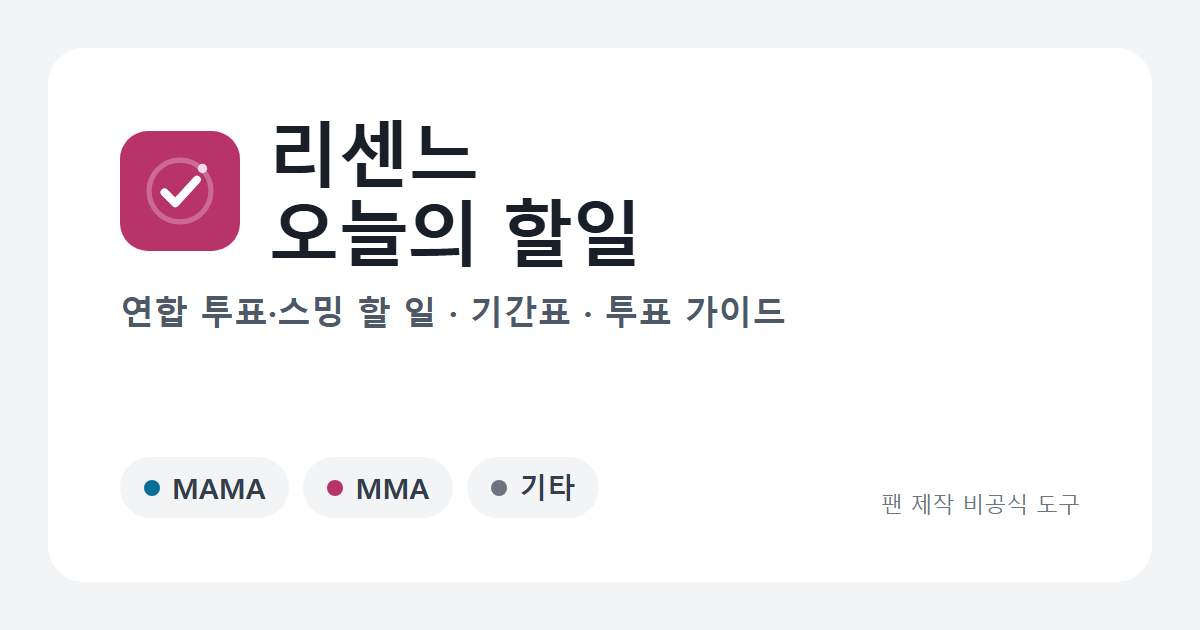
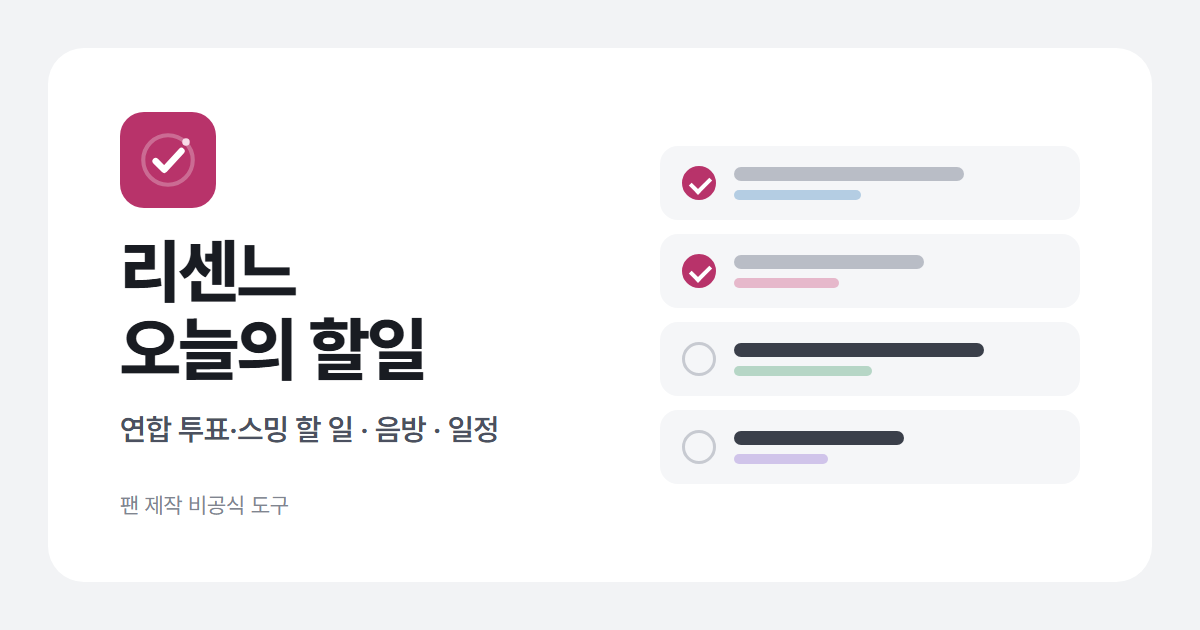
v157: 탭마다 공유 미리보기 그림 (tools/build_og.mjs)

diff --git a/music/index.html b/music/index.html
@@ -20,15 +20,15 @@
   <meta property="og:title" content="리센느 음방 · 음악방송 사전투표 · 실시간 투표 방법">
   <meta property="og:description" content="리센느 음방 출연 일정과 음악방송별 사전투표·실시간 투표 방법, 투표 앱과 반영 비율을 정리했어요.">
   <meta property="og:url" content="https://woniwoniwoniwoni.github.io/todo/music/">
-  <meta property="og:image" content="https://woniwoniwoniwoni.github.io/todo/icons/og.png">
+  <meta property="og:image" content="https://woniwoniwoniwoni.github.io/todo/icons/og-music.png">
   <meta property="og:image:width" content="1200">
   <meta property="og:image:height" content="630">
-  <meta property="og:image:alt" content="리센느 오늘의 할일 — 연합 투표·스밍 할 일, 음방 투표 방법, 리센느 일정, 연합 일정">
+  <meta property="og:image:alt" content="리센느 오늘의 할일 — 음악방송">
   <meta property="og:locale" content="ko_KR">
   <meta name="twitter:card" content="summary_large_image">
   <meta name="twitter:title" content="리센느 음방 · 음악방송 사전투표 · 실시간 투표 방법">
   <meta name="twitter:description" content="리센느 음방 출연 일정과 음악방송별 사전투표·실시간 투표 방법, 투표 앱과 반영 비율을 정리했어요.">
-  <meta name="twitter:image" content="https://woniwoniwoniwoni.github.io/todo/icons/og.png">
+  <meta name="twitter:image" content="https://woniwoniwoniwoni.github.io/todo/icons/og-music.png">
 
   <!-- 웹앱 (홈 화면에 추가) -->
   <link rel="manifest" href="../manifest.webmanifest">
@@ -44,7 +44,7 @@
   <link href="https://fonts.googleapis.com/css2?family=Manrope:wght@400;500;600;700&display=swap" rel="stylesheet">
   <link rel="preconnect" href="https://cdn.jsdelivr.net">
   <link rel="stylesheet" href="https://cdn.jsdelivr.net/gh/orioncactus/pretendard@v1.3.9/dist/web/variable/pretendardvariable-dynamic-subset.min.css">
-  <link rel="stylesheet" href="../style.css?v=156">
+  <link rel="stylesheet" href="../style.css?v=157">
 </head>
 <body>
   <header class="topbar">
@@ -99,9 +99,9 @@
     </a>
   </nav>
 
-  <script src="../config.js?v=156"></script>
-  <script src="../sample-data.js?v=156"></script>
-  <script src="../app.js?v=156"></script>
+  <script src="../config.js?v=157"></script>
+  <script src="../sample-data.js?v=157"></script>
+  <script src="../app.js?v=157"></script>
   <!-- Cloudflare Web Analytics: 쿠키 없이 익명 방문 통계만 (IP·개인 식별 정보는 보지 않음) -->
   <script defer src="https://static.cloudflareinsights.com/beacon.min.js" data-cf-beacon='{"token": "ea604ffe5eaf4adbbdf08cb12d63aea0", "spa": true}'></script>
 </body>

diff --git a/calendar/index.html b/calendar/index.html
@@ -20,15 +20,15 @@
   <meta property="og:title" content="리센느 연합 일정 · 투표 기간표">
   <meta property="og:description" content="리센느 연합 투표·스밍 일정을 기간표와 달력으로 정리했어요. MMA·MAMA·퍼스트브랜드 대상 투표 기간까지.">
   <meta property="og:url" content="https://woniwoniwoniwoni.github.io/todo/calendar/">
-  <meta property="og:image" content="https://woniwoniwoniwoni.github.io/todo/icons/og.png">
+  <meta property="og:image" content="https://woniwoniwoniwoni.github.io/todo/icons/og-calendar.png">
   <meta property="og:image:width" content="1200">
   <meta property="og:image:height" content="630">
-  <meta property="og:image:alt" content="리센느 오늘의 할일 — 연합 투표·스밍 할 일, 음방 투표 방법, 리센느 일정, 연합 일정">
+  <meta property="og:image:alt" content="리센느 오늘의 할일 — 연합 일정">
   <meta property="og:locale" content="ko_KR">
   <meta name="twitter:card" content="summary_large_image">
   <meta name="twitter:title" content="리센느 연합 일정 · 투표 기간표">
   <meta name="twitter:description" content="리센느 연합 투표·스밍 일정을 기간표와 달력으로 정리했어요. MMA·MAMA·퍼스트브랜드 대상 투표 기간까지.">
-  <meta name="twitter:image" content="https://woniwoniwoniwoni.github.io/todo/icons/og.png">
+  <meta name="twitter:image" content="https://woniwoniwoniwoni.github.io/todo/icons/og-calendar.png">
 
   <!-- 웹앱 (홈 화면에 추가) -->
   <link rel="manifest" href="../manifest.webmanifest">
@@ -44,7 +44,7 @@
   <link href="https://fonts.googleapis.com/css2?family=Manrope:wght@400;500;600;700&display=swap" rel="stylesheet">
   <link rel="preconnect" href="https://cdn.jsdelivr.net">
   <link rel="stylesheet" href="https://cdn.jsdelivr.net/gh/orioncactus/pretendard@v1.3.9/dist/web/variable/pretendardvariable-dynamic-subset.min.css">
-  <link rel="stylesheet" href="../style.css?v=156">
+  <link rel="stylesheet" href="../style.css?v=157">
 </head>
 <body>
   <header class="topbar">
@@ -99,9 +99,9 @@
     </a>
   </nav>
 
-  <script src="../config.js?v=156"></script>
-  <script src="../sample-data.js?v=156"></script>
-  <script src="../app.js?v=156"></script>
+  <script src="../config.js?v=157"></script>
+  <script src="../sample-data.js?v=157"></script>
+  <script src="../app.js?v=157"></script>
   <!-- Cloudflare Web Analytics: 쿠키 없이 익명 방문 통계만 (IP·개인 식별 정보는 보지 않음) -->
   <script defer src="https://static.cloudflareinsights.com/beacon.min.js" data-cf-beacon='{"token": "ea604ffe5eaf4adbbdf08cb12d63aea0", "spa": true}'></script>
 </body>

diff --git a/guides/index.html b/guides/index.html
@@ -21,15 +21,15 @@
   <meta property="og:title" content="리센느 연합 · 투표 플랫폼 바로가기">
   <meta property="og:description" content="리센느와 연합한 팀, 서로 해 주는 투표, 투표·스밍 플랫폼 바로가기를 모았어요.">
   <meta property="og:url" content="https://woniwoniwoniwoni.github.io/todo/alliances/">
-  <meta property="og:image" content="https://woniwoniwoniwoni.github.io/todo/icons/og.png">
+  <meta property="og:image" content="https://woniwoniwoniwoni.github.io/todo/icons/og-alliances.png">
   <meta property="og:image:width" content="1200">
   <meta property="og:image:height" content="630">
-  <meta property="og:image:alt" content="리센느 오늘의 할일 — 연합 투표·스밍 할 일, 음방 투표 방법, 리센느 일정, 연합 일정">
+  <meta property="og:image:alt" content="리센느 오늘의 할일 — 연합&amp;기타">
   <meta property="og:locale" content="ko_KR">
   <meta name="twitter:card" content="summary_large_image">
   <meta name="twitter:title" content="리센느 연합 · 투표 플랫폼 바로가기">
   <meta name="twitter:description" content="리센느와 연합한 팀, 서로 해 주는 투표, 투표·스밍 플랫폼 바로가기를 모았어요.">
-  <meta name="twitter:image" content="https://woniwoniwoniwoni.github.io/todo/icons/og.png">
+  <meta name="twitter:image" content="https://woniwoniwoniwoni.github.io/todo/icons/og-alliances.png">
 
   <!-- 웹앱 (홈 화면에 추가) -->
   <link rel="manifest" href="../manifest.webmanifest">
@@ -45,7 +45,7 @@
   <link href="https://fonts.googleapis.com/css2?family=Manrope:wght@400;500;600;700&display=swap" rel="stylesheet">
   <link rel="preconnect" href="https://cdn.jsdelivr.net">
   <link rel="stylesheet" href="https://cdn.jsdelivr.net/gh/orioncactus/pretendard@v1.3.9/dist/web/variable/pretendardvariable-dynamic-subset.min.css">
-  <link rel="stylesheet" href="../style.css?v=156">
+  <link rel="stylesheet" href="../style.css?v=157">
 </head>
 <body>
   <header class="topbar">
@@ -100,9 +100,9 @@
     </a>
   </nav>
 
-  <script src="../config.js?v=156"></script>
-  <script src="../sample-data.js?v=156"></script>
-  <script src="../app.js?v=156"></script>
+  <script src="../config.js?v=157"></script>
+  <script src="../sample-data.js?v=157"></script>
+  <script src="../app.js?v=157"></script>
   <!-- Cloudflare Web Analytics: 쿠키 없이 익명 방문 통계만 (IP·개인 식별 정보는 보지 않음) -->
   <script defer src="https://static.cloudflareinsights.com/beacon.min.js" data-cf-beacon='{"token": "ea604ffe5eaf4adbbdf08cb12d63aea0", "spa": true}'></script>
 </body>

diff --git a/alliances/index.html b/alliances/index.html
@@ -20,15 +20,15 @@
   <meta property="og:title" content="리센느 연합 · 투표 플랫폼 바로가기">
   <meta property="og:description" content="리센느와 연합한 팀, 서로 해 주는 투표, 투표·스밍 플랫폼 바로가기를 모았어요.">
   <meta property="og:url" content="https://woniwoniwoniwoni.github.io/todo/alliances/">
-  <meta property="og:image" content="https://woniwoniwoniwoni.github.io/todo/icons/og.png">
+  <meta property="og:image" content="https://woniwoniwoniwoni.github.io/todo/icons/og-alliances.png">
   <meta property="og:image:width" content="1200">
   <meta property="og:image:height" content="630">
-  <meta property="og:image:alt" content="리센느 오늘의 할일 — 연합 투표·스밍 할 일, 음방 투표 방법, 리센느 일정, 연합 일정">
+  <meta property="og:image:alt" content="리센느 오늘의 할일 — 연합&amp;기타">
   <meta property="og:locale" content="ko_KR">
   <meta name="twitter:card" content="summary_large_image">
   <meta name="twitter:title" content="리센느 연합 · 투표 플랫폼 바로가기">
   <meta name="twitter:description" content="리센느와 연합한 팀, 서로 해 주는 투표, 투표·스밍 플랫폼 바로가기를 모았어요.">
-  <meta name="twitter:image" content="https://woniwoniwoniwoni.github.io/todo/icons/og.png">
+  <meta name="twitter:image" content="https://woniwoniwoniwoni.github.io/todo/icons/og-alliances.png">
 
   <!-- 웹앱 (홈 화면에 추가) -->
   <link rel="manifest" href="../manifest.webmanifest">
@@ -44,7 +44,7 @@
   <link href="https://fonts.googleapis.com/css2?family=Manrope:wght@400;500;600;700&display=swap" rel="stylesheet">
   <link rel="preconnect" href="https://cdn.jsdelivr.net">
   <link rel="stylesheet" href="https://cdn.jsdelivr.net/gh/orioncactus/pretendard@v1.3.9/dist/web/variable/pretendardvariable-dynamic-subset.min.css">
-  <link rel="stylesheet" href="../style.css?v=156">
+  <link rel="stylesheet" href="../style.css?v=157">
 </head>
 <body>
   <header class="topbar">
@@ -99,9 +99,9 @@
     </a>
   </nav>
 
-  <script src="../config.js?v=156"></script>
-  <script src="../sample-data.js?v=156"></script>
-  <script src="../app.js?v=156"></script>
+  <script src="../config.js?v=157"></script>
+  <script src="../sample-data.js?v=157"></script>
+  <script src="../app.js?v=157"></script>
   <!-- Cloudflare Web Analytics: 쿠키 없이 익명 방문 통계만 (IP·개인 식별 정보는 보지 않음) -->
   <script defer src="https://static.cloudflareinsights.com/beacon.min.js" data-cf-beacon='{"token": "ea604ffe5eaf4adbbdf08cb12d63aea0", "spa": true}'></script>
 </body>

diff --git a/schedule/index.html b/schedule/index.html
@@ -20,15 +20,15 @@
   <meta property="og:title" content="리센느 일정 · 스케줄">
   <meta property="og:description" content="리센느(RESCENE) 공식 일정을 Mnet Plus·blip 기준으로 달력과 목록으로 보여 줘요.">
   <meta property="og:url" content="https://woniwoniwoniwoni.github.io/todo/schedule/">
-  <meta property="og:image" content="https://woniwoniwoniwoni.github.io/todo/icons/og.png">
+  <meta property="og:image" content="https://woniwoniwoniwoni.github.io/todo/icons/og-schedule.png">
   <meta property="og:image:width" content="1200">
   <meta property="og:image:height" content="630">
-  <meta property="og:image:alt" content="리센느 오늘의 할일 — 연합 투표·스밍 할 일, 음방 투표 방법, 리센느 일정, 연합 일정">
+  <meta property="og:image:alt" content="리센느 오늘의 할일 — 리센느 일정">
   <meta property="og:locale" content="ko_KR">
   <meta name="twitter:card" content="summary_large_image">
   <meta name="twitter:title" content="리센느 일정 · 스케줄">
   <meta name="twitter:description" content="리센느(RESCENE) 공식 일정을 Mnet Plus·blip 기준으로 달력과 목록으로 보여 줘요.">
-  <meta name="twitter:image" content="https://woniwoniwoniwoni.github.io/todo/icons/og.png">
+  <meta name="twitter:image" content="https://woniwoniwoniwoni.github.io/todo/icons/og-schedule.png">
 
   <!-- 웹앱 (홈 화면에 추가) -->
   <link rel="manifest" href="../manifest.webmanifest">
@@ -44,7 +44,7 @@
   <link href="https://fonts.googleapis.com/css2?family=Manrope:wght@400;500;600;700&display=swap" rel="stylesheet">
   <link rel="preconnect" href="https://cdn.jsdelivr.net">
   <link rel="stylesheet" href="https://cdn.jsdelivr.net/gh/orioncactus/pretendard@v1.3.9/dist/web/variable/pretendardvariable-dynamic-subset.min.css">
-  <link rel="stylesheet" href="../style.css?v=156">
+  <link rel="stylesheet" href="../style.css?v=157">
 </head>
 <body>
   <header class="topbar">
@@ -99,9 +99,9 @@
     </a>
   </nav>
 
-  <script src="../config.js?v=156"></script>
-  <script src="../sample-data.js?v=156"></script>
-  <script src="../app.js?v=156"></script>
+  <script src="../config.js?v=157"></script>
+  <script src="../sample-data.js?v=157"></script>
+  <script src="../app.js?v=157"></script>
   <!-- Cloudflare Web Analytics: 쿠키 없이 익명 방문 통계만 (IP·개인 식별 정보는 보지 않음) -->
   <script defer src="https://static.cloudflareinsights.com/beacon.min.js" data-cf-beacon='{"token": "ea604ffe5eaf4adbbdf08cb12d63aea0", "spa": true}'></script>
 </body>

diff --git a/index.html b/index.html
@@ -43,7 +43,7 @@
   <link href="https://fonts.googleapis.com/css2?family=Manrope:wght@400;500;600;700&display=swap" rel="stylesheet">
   <link rel="preconnect" href="https://cdn.jsdelivr.net">
   <link rel="stylesheet" href="https://cdn.jsdelivr.net/gh/orioncactus/pretendard@v1.3.9/dist/web/variable/pretendardvariable-dynamic-subset.min.css">
-  <link rel="stylesheet" href="style.css?v=156">
+  <link rel="stylesheet" href="style.css?v=157">
 </head>
 <body>
   <header class="topbar">
@@ -99,9 +99,9 @@
     </a>
   </nav>
 
-  <script src="config.js?v=156"></script>
-  <script src="sample-data.js?v=156"></script>
-  <script src="app.js?v=156"></script>
+  <script src="config.js?v=157"></script>
+  <script src="sample-data.js?v=157"></script>
+  <script src="app.js?v=157"></script>
   <!-- Cloudflare Web Analytics: 쿠키 없이 익명 방문 통계만 (IP·개인 식별 정보는 보지 않음) -->
   <script defer src="https://static.cloudflareinsights.com/beacon.min.js" data-cf-beacon='{"token": "ea604ffe5eaf4adbbdf08cb12d63aea0", "spa": true}'></script>
 </body>

diff --git a/sw.js b/sw.js
@@ -1,6 +1,6 @@
 // 웹앱 오프라인 지원: 항상 인터넷에서 새 파일을 먼저 받고, 안 되면 저장해 둔 것을 보여줌.
 // 사이트 파일을 바꿀 때 VERSION 숫자를 올리면 예전 저장본이 지워져요.
-const VERSION = 'v156';
+const VERSION = 'v157';
 const CACHE = 'rescene-todo-' + VERSION;
 const SHELL = [
   './',

diff --git a/tools/build_pages.py b/tools/build_pages.py
@@ -78,6 +78,11 @@ def page(src, slug):
     out = sub1(r'<meta property="og:description" content="[^"]*">', f'<meta property="og:description" content="{e(desc)}">', out)
     out = sub1(r'<meta name="twitter:title" content="[^"]*">', f'<meta name="twitter:title" content="{e(title)}">', out)
     out = sub1(r'<meta name="twitter:description" content="[^"]*">', f'<meta name="twitter:description" content="{e(desc)}">', out)
+    # 공유 미리보기 그림: 탭마다 따로 (icons/og-탭.png, tools/build_og.mjs로 만듦)
+    img = f'{SITE}icons/og-{target}.png'
+    out = sub1(r'<meta property="og:image" content="[^"]*">', f'<meta property="og:image" content="{img}">', out)
+    out = sub1(r'<meta name="twitter:image" content="[^"]*">', f'<meta name="twitter:image" content="{img}">', out)
+    out = sub1(r'<meta property="og:image:alt" content="[^"]*">', f'<meta property="og:image:alt" content="리센느 오늘의 할일 — {e(h1)}">', out)
     out = sub1(r'(<section class="page-head seo-intro">\s*)<h1>[^<]*</h1>\s*<p>[^<]*</p>',
                f'\\1<h1>{e(h1)}</h1>\n      <p>{e(intro)}</p>', out)
     if slug in ALIASES:

diff --git a/tools/publish.py b/tools/publish.py
@@ -22,7 +22,7 @@ import os
 ROOT = os.path.dirname(os.path.dirname(os.path.abspath(__file__)))
 LIVE = 'https://woniwoniwoniwoni.github.io/todo/'
 PORT = 8765
-FILES = ['src', 'sheet-templates', 'sample-data.js', 'index.html', 'music', 'schedule', 'calendar', 'alliances', 'guides', 'sitemap.xml', '404.html', 'manifest.webmanifest', 'sw.js', 'app.js', 'style.css', 'data', 'tools', '사용설명서.md']
+FILES = ['src', 'icons', 'sheet-templates', 'sample-data.js', 'index.html', 'music', 'schedule', 'calendar', 'alliances', 'guides', 'sitemap.xml', '404.html', 'manifest.webmanifest', 'sw.js', 'app.js', 'style.css', 'data', 'tools', '사용설명서.md']
 
 
 def run(*c, check=True):

diff --git a/사용설명서.md b/사용설명서.md
@@ -25,6 +25,7 @@
 | `index.html` · `style.css` | 화면 뼈대 · 모양 | ✔ |
 | `music/` `schedule/` `calendar/` `alliances/` `guides/` · `sitemap.xml` | 탭별 페이지, `index.html` 로 만듦 (`tools/build_pages.py`) | ✘ index.html을 고쳐요 |
 | `sheet-templates/*.csv` | 할 일 · 연합 · 가이드 · 음방 · 음방달력 원본 | ✔ |
+| `icons/og*.png` | 공유 미리보기 그림, 탭마다 하나 (`node tools/build_og.mjs` 로 다시 만듦) | ✘ build_og.mjs를 고쳐요 |
 | `sample-data.js` | CSV로 만든 정리본 (`tools/build_data.py`) | ✘ |
 | `data/blip.json` · `data/rescene.ics` | blip 일정 + Mnet Plus 일정 사본 · 구독용 캘린더 (30분마다 자동) | ✘ |
 | `data/weekly.json` | 디시 주간 일정표에서 읽은 기타 일정 + 직접 넣는 기타 일정 | ✔ (events에 한 줄) |
